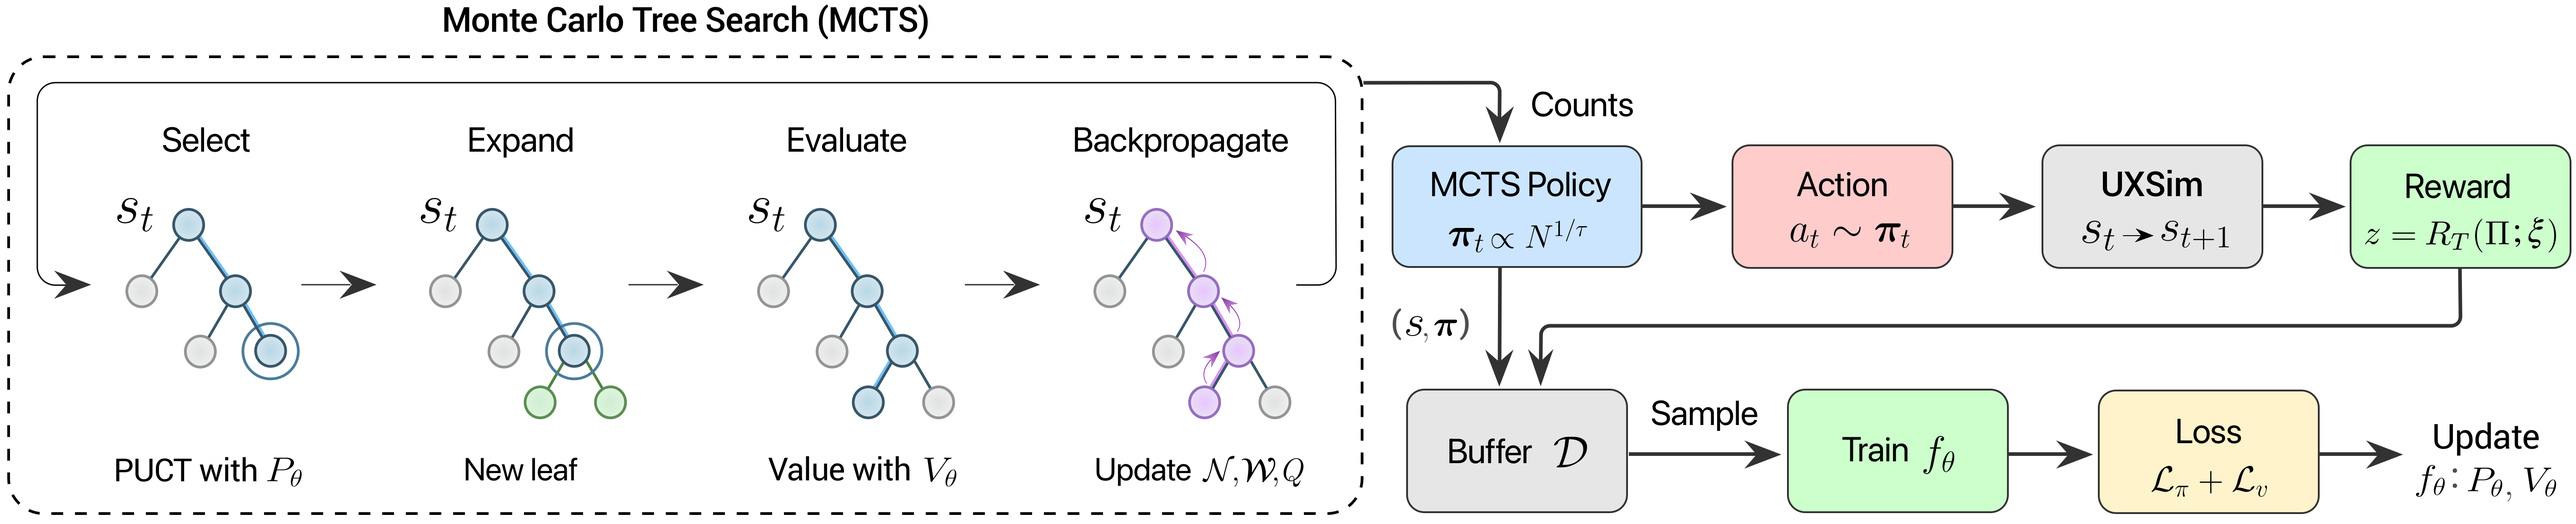
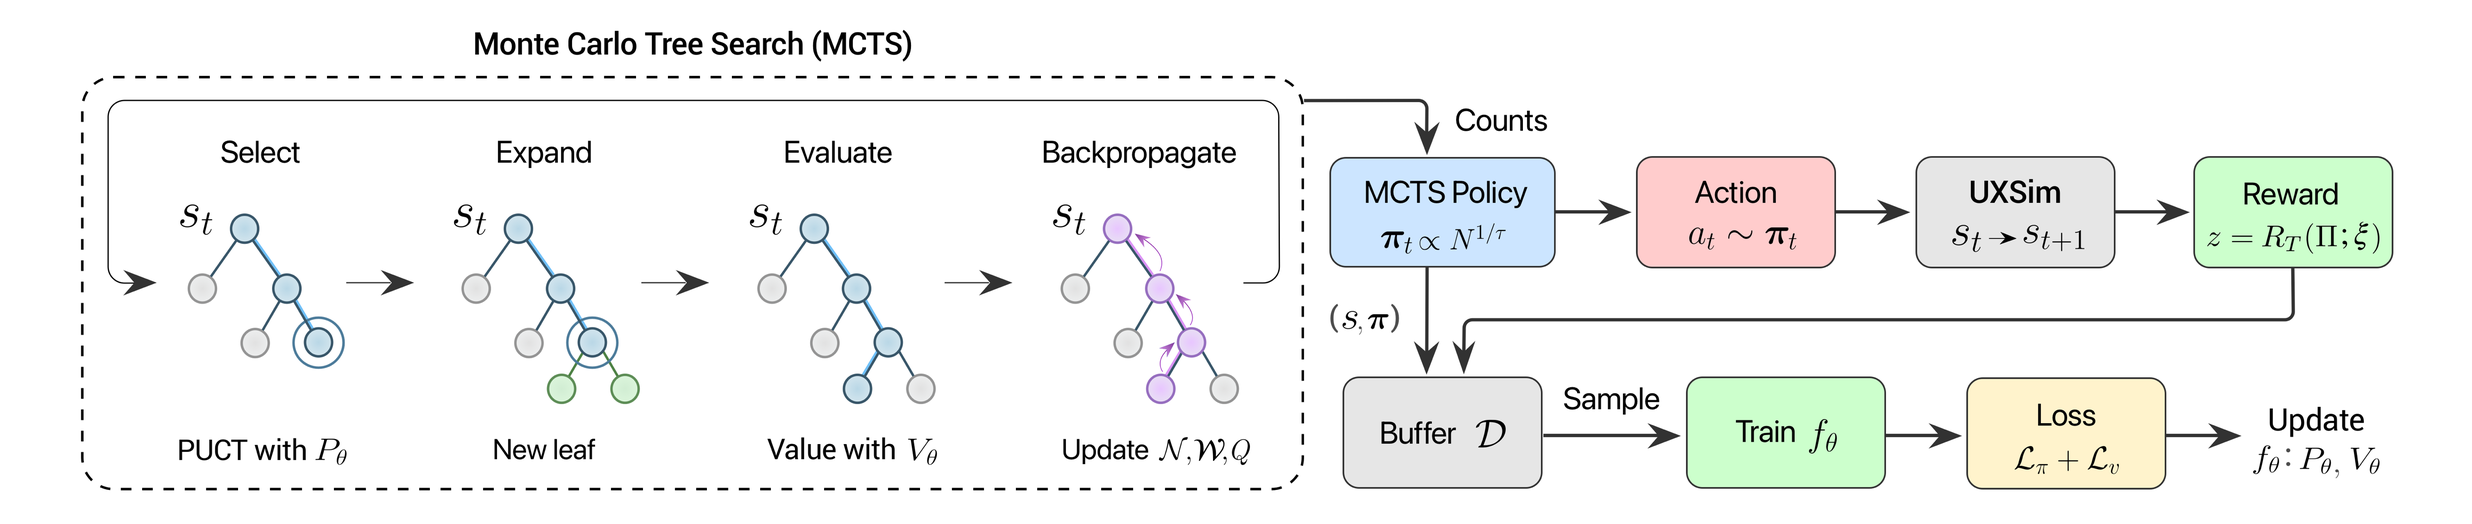
Update release assets and README links

diff --git a/README.md b/README.md
@@ -8,7 +8,7 @@
 </p>
 
 <p align="center">
-  <img src="assets/alphatransit_header.gif" alt="AlphaTransit route design animation" style="width:800px"/>
+  <img src="assets/topo/alphatransit_header_topo.gif" alt="AlphaTransit route design animation" style="width:800px"/>
 </p>
 
 ---
@@ -30,7 +30,7 @@ AlphaTransit is a reinforcement learning framework for the **Transit Route Netwo
 Runtime inputs are standardized CSV/JSON files under `networks/`. Bloomington, Indiana is the primary city-scale case study.
 
 <p align="center">
-  <img src="assets/alphatransit_transportation.gif" alt="AlphaTransit transportation network visualization" style="width:800px"/>
+  <img src="assets/topo/alphatransit_transportation_topo.gif" alt="AlphaTransit transportation network visualization" style="width:800px"/>
 </p>
 
 | Input | Location | Description |
@@ -52,8 +52,8 @@ Saved policies can be evaluated with `main.py`, and saved result summaries can b
 | Artifact | Link | Contents |
 | --- | --- | --- |
 | Paper page | [HF Papers](https://huggingface.co/papers/2605.28730) | Paper metadata and project links on Hugging Face Papers. |
-| Model checkpoints | [AlphaTransit checkpoints](https://huggingface.co/Bibek-Poudel/alphatransit-checkpoints) | AlphaTransit policy checkpoints for Bloomington at `alpha=0.3` and `alpha=1.0`, plus model configuration and a checkpoint manifest. |
-| Bloomington dataset | [Bloomington TRNDP](https://huggingface.co/datasets/Bibek-Poudel/bloomington-trndp) | Standardized Bloomington nodes, links, OD demand, and existing routes. |
+| Model checkpoints | [AlphaTransit checkpoints](https://huggingface.co/matrix-multiply/alphatransit-checkpoints) | AlphaTransit policy checkpoints for Bloomington at `alpha=0.3` and `alpha=1.0`, plus model configuration and a checkpoint manifest. |
+| Bloomington dataset | [Bloomington TRNDP](https://huggingface.co/datasets/matrix-multiply/bloomington-tndp) | Standardized Bloomington nodes, links, OD demand, and existing routes. |
 
 ---
 ### ⚙ Setup
@@ -91,7 +91,7 @@ The main entry point is `main.py`. Pass `--apply_best_params` to use the sweep s
 uv run python main.py --algorithm alphatransit --gpu --alpha=0.3 --apply_best_params --n_iter=500
 ```
 
-Use `--alpha=1.0` for the high transit demand setting. Weights & Biases logging is disabled by default; pass `--wandb` to enable it. Main training runs and released-checkpoint logs are summarized in the [WandB report](https://wandb.ai/bibek-poudel/transit_design/reports/ALPHATRANSIT_REPORT_PLACEHOLDER).
+Use `--alpha=1.0` for the high transit demand setting. Weights & Biases logging is disabled by default; pass `--wandb` to enable it. Main training runs and released-checkpoint logs are summarized in the [WandB report](https://api.wandb.ai/links/bibek-poudel/wa4zd1il).
 
 ---
 ### 🧪 Baselines
